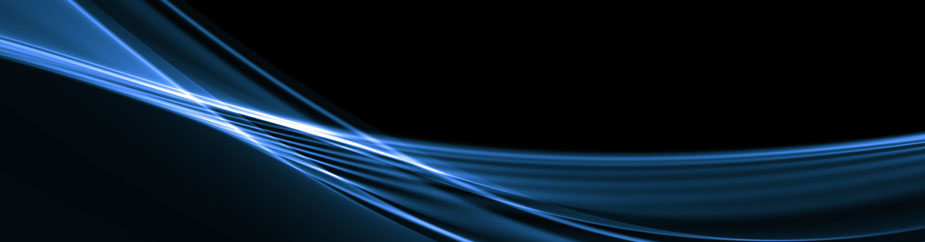
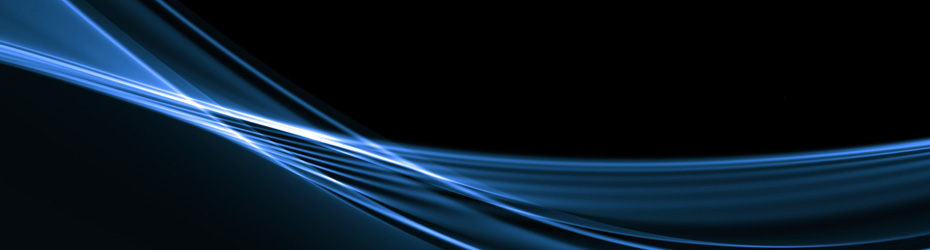
Fixed background images on home page. They were slightly too narrow for the new width that I made when fitting things into an IE layout.
git-svn-id: https://sondow.googlecode.com/svn/trunk@71 9cedc2b2-b939-11de-82ee-51df2961d3cf

diff --git a/sondow/war/static/styles/main.css b/sondow/war/static/styles/main.css
@@ -11,7 +11,7 @@ div.description { }
 
 ul { list-style-image: none; list-style-position: outside; list-style-type: none; padding-left: 0; }
 
-div.home div.header     { background-repeat: no-repeat; background-image: url('/static/images/swish-upper.jpg'); }
+div.home div.header     { background-repeat: no-repeat; background-image: url('/static/images/swish-upper.jpg'); background-position: 0 -9px; }
 div.home div.header     { position: relative; margin-top: 20px; border-top: 1px solid #284351; border-bottom: 1px solid white; height: 241px; }
 div.home div.header h1  { position: absolute; bottom: 17px; left: 149px; color: white; font-weight: normal; margin: 0; width: 120px; }
 div.home div.header img { position: absolute; bottom: 23px; left:  33px;  height: 113px; border: 1px solid #1A588F; }
@@ -26,7 +26,7 @@ ul.outerList li ul      { float: left; padding: 0 13px 0 17px; margin: 0; }
 ul.outerList li ul li   { color: white;   font-weight: normal; font-size: 10pt; line-height: 150%; text-indent: -18px; padding-left: 18px; width: auto; height: auto; float: none; border: none; }
 ul.outerList li ul li a { color: #86B6FF; font-weight: normal; font-size: 11pt; text-decoration: none; }
 
-div.footer { background-repeat: no-repeat; background-image: url('/static/images/swish-lower.jpg'); }
+div.footer { background-repeat: no-repeat; background-image: url('/static/images/swish-lower.jpg'); background-position:0 -2px; }
 div.footer { border-top: 1px solid white; height: 30px; clear: both; width: 100%; }
 
 div.description div.header      { background-repeat: no-repeat; background-image: url('/static/images/swish-upper.jpg'); background-position: 0 -128px; }
